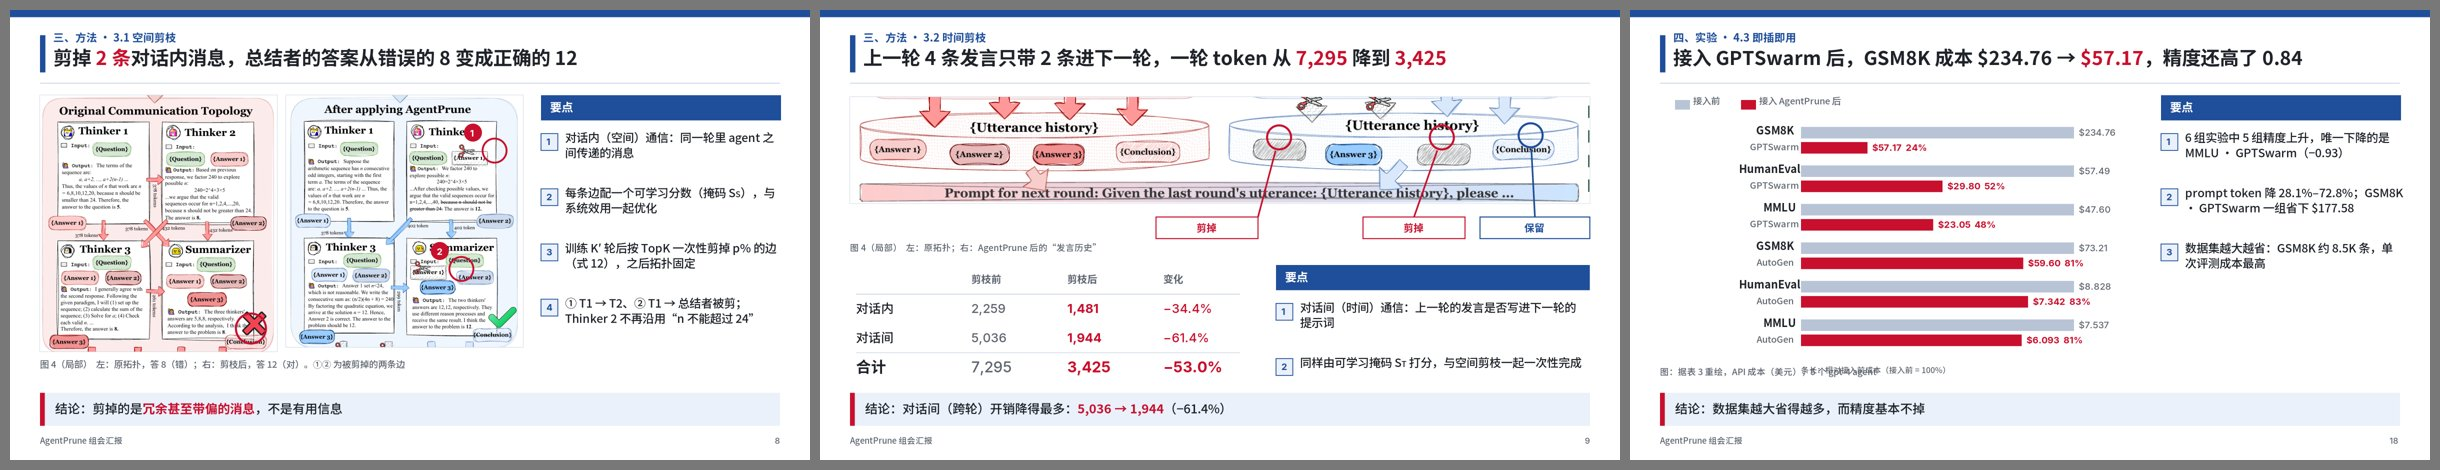
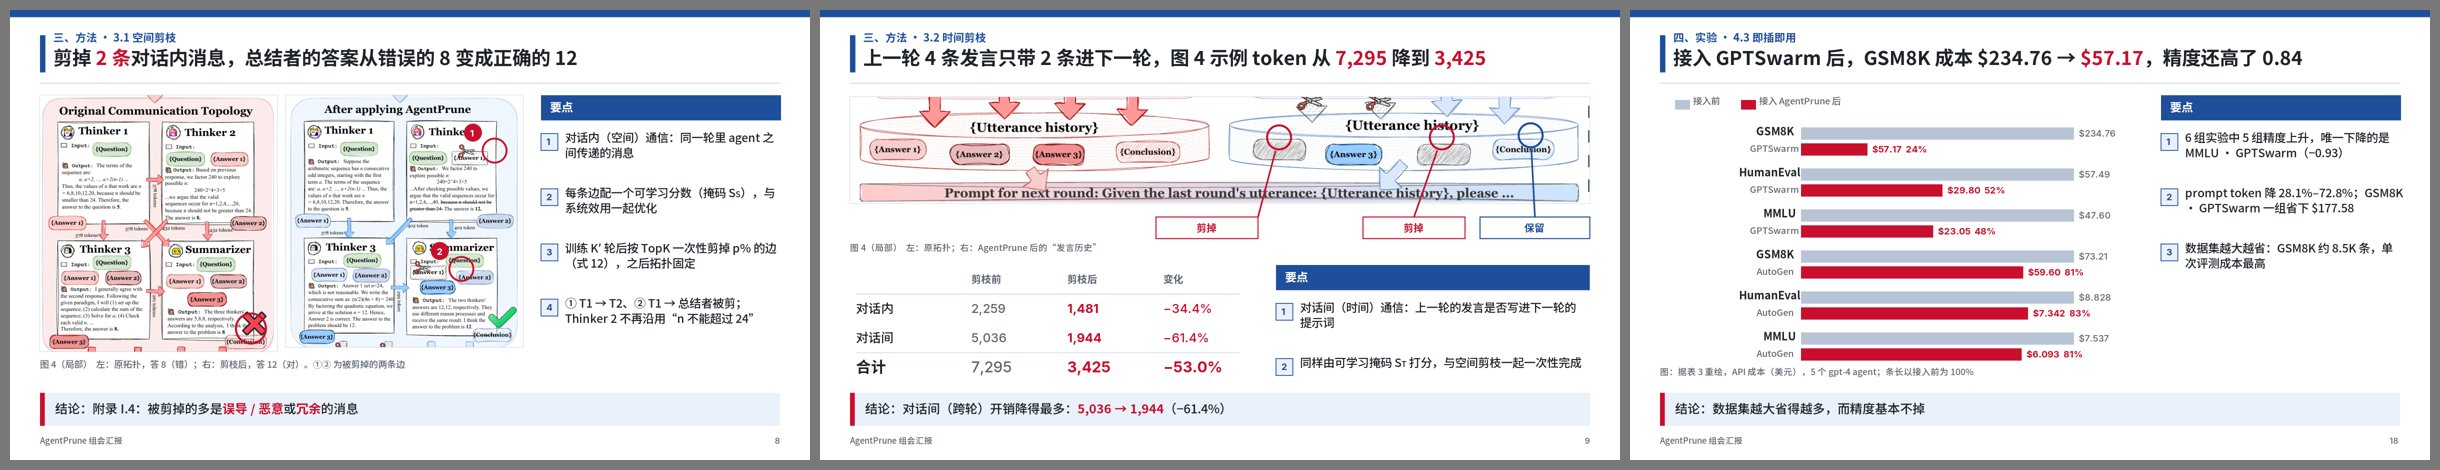
paper-ppt lab/annotated-v2: reader/presenter re-review — fix overclaims, token wording, label collisions; add REVIEW.md

Changed region(s): [[0.7164, 0.2681, 0.8721, 0.8043], [0.4672, 0.0894, 0.623, 0.1489], [0.0311, 0.834, 0.1557, 0.8936]]

diff --git a/paper-ppt/lab/annotated-v2/styles-a.js b/paper-ppt/lab/annotated-v2/styles-a.js
@@ -50,11 +50,11 @@ const domestic = (() => {
       K.ring(c, K.at(gl, A.cross), 0.25, S.red);
       c.text('图 4（局部）  左：原拓扑，答 8（错）；右：剪枝后，答 12（对）。①② 为被剪掉的两条边', {x: 0.5, y: 5.82, w: 8.0, h: 0.3, size: 11, color: S.muted, font: SANS});
       pts(c, 8.85, 1.42, 4.0, [A.points[0], A.points[1], A.points[2], '① T1 → T2、② T1 → 总结者被剪；Thinker 2 不再沿用“n 不能超过 24”'], '要点');
-      concl(c, '剪掉的是[[冗余甚至带偏的消息]]，不是有用信息');
+      concl(c, '附录 I.4：被剪掉的多是[[误导 / 恶意]]或[[冗余]]的消息');
       c.notes('来源：' + SRC.f4);
     },
     (c) => {
-      frame(c, '三、方法 · 3.2 时间剪枝', '上一轮 4 条发言只带 2 条进下一轮，一轮 token 从 [[7,295]] 降到 [[3,425]]', 9);
+      frame(c, '三、方法 · 3.2 时间剪枝', '上一轮 4 条发言只带 2 条进下一轮，图 4 示例 token 从 [[7,295]] 降到 [[3,425]]', 9);
       const g = K.figure(c, B.temporal, {x: 0.5, y: 1.45, w: 12.33, h: 1.78}, 'top', {line: S.rule, lw: 1});
       K.callout(c, K.at(g, B.pruned[0]), {x: 5.6, y: 3.45, w: 1.7, h: 0.36}, '剪掉', cs);
       K.callout(c, K.at(g, B.pruned[1]), {x: 9.05, y: 3.45, w: 1.7, h: 0.36}, '剪掉', cs);
@@ -69,8 +69,8 @@ const domestic = (() => {
       frame(c, '四、实验 · 4.3 即插即用', '接入 GPTSwarm 后，GSM8K 成本 $234.76 → [[$57.17]]，精度还高了 0.84', 18);
       c.rect({x: 0.75, y: 1.5, w: 0.25, h: 0.16, fill: 'B8C4D6'}); c.text('接入前', {x: 1.05, y: 1.43, w: 1, h: 0.3, size: 11, color: S.muted, font: SANS});
       c.rect({x: 1.85, y: 1.5, w: 0.25, h: 0.16, fill: S.red}); c.text('接入 AgentPrune 后', {x: 2.15, y: 1.43, w: 2, h: 0.3, size: 11, color: S.muted, font: SANS});
-      K.hbars(c, {x: 0.5, y: 1.85, w: 7.9, h: 4.1}, COST.rows, {font: SANS, numFont: INTER, text: S.text, muted: S.muted, before: 'B8C4D6', after: S.red, fmt: K.money, labelW: 2.35, boldFirst: true});
-      c.text('图：据表 3 重绘，API 成本（美元），5 个 gpt-4 agent', {x: 0.5, y: 5.95, w: 7.5, h: 0.3, size: 10.5, color: S.muted, font: SANS});
+      K.hbars(c, {x: 0.5, y: 1.85, w: 7.9, h: 4.1}, COST.rows, {font: SANS, numFont: INTER, text: S.text, muted: S.muted, before: 'B8C4D6', after: S.red, fmt: K.money, labelW: 2.35, boldFirst: true, noNote: true});
+      c.text('图：据表 3 重绘，API 成本（美元），5 个 gpt-4 agent；条长以接入前为 100%', {x: 0.5, y: 5.95, w: 7.5, h: 0.3, size: 10.5, color: S.muted, font: SANS});
       pts(c, 8.85, 1.42, 4.0, COST.points, '要点');
       concl(c, '数据集越大省得越多，而精度基本不掉');
       c.notes('来源：' + SRC.t3 + '；$177.58、28.1%–72.8% 见 §4.3 与摘要');
@@ -111,7 +111,7 @@ const international = (() => {
       src(c, SRC.f4);
     },
     (c) => {
-      frame(c, '上一轮 4 条发言只带 2 条进下一轮，一轮 token 从 7,295 降到 [[3,425]]', '[Fig. 4]');
+      frame(c, '上一轮 4 条发言只带 2 条进下一轮，图 4 示例 token 从 7,295 降到 [[3,425]]', '[Fig. 4]');
       const g = K.figure(c, B.temporal, {x: 0.6, y: 1.65, w: 12.1, h: 1.8}, 'top');
       K.callout(c, K.at(g, B.pruned[0]), {x: 6.2, y: 3.7, w: 1.6, h: 0.34}, '剪掉', cs);
       K.callout(c, K.at(g, B.pruned[1]), {x: 8.7, y: 3.7, w: 1.6, h: 0.34}, '剪掉', cs);
@@ -148,7 +148,7 @@ const keynote = (() => {
     },
     (c) => {
       c.bg('FFFFFF');
-      c.text('一轮 token', {x: 0.8, y: 0.9, w: 6, h: 0.5, size: 20, color: S.muted, font: SANS});
+      c.text('图 4 示例 · token', {x: 0.8, y: 0.9, w: 6, h: 0.5, size: 20, color: S.muted, font: SANS});
       c.text('7,295 → [[3,425]]', {x: 0.8, y: 1.4, w: 11.8, h: 2.0, size: 96, color: S.text, font: INTER, bold: true, acc: S.acc});
       c.text('只把上一轮 4 条发言中的 2 条带进下一轮', {x: 0.8, y: 3.45, w: 11, h: 0.5, size: 20, color: S.text, font: SANS});
       const g = K.figure(c, B.temporal, {x: 0.8, y: 4.45, w: 11.7, h: 1.8}, 'left');
@@ -186,19 +186,19 @@ const systems = (() => {
   const cs = {stroke: S.ours, fill: S.tint, line: S.ours, color: S.ours, font: SANS, size: 12, ring: 0.2, r: 0.05};
   return {name: 'systems-talk', label: '系统顶会报告', pages: [
     (c) => {
-      frame(c, 1, '剪掉 2 条对话内消息，答案从 8 变成 [[12]]：冗余通信在帮倒忙');
+      frame(c, 1, '剪掉 2 条对话内消息，答案从 8 变成 [[12]]（Fig. 4 示例）');
       chip(c, 0.6, 1.55, 'Baseline · 6 条边', false); chip(c, 6.9, 1.55, 'AgentPrune · 4 条边', true);
       const gl = K.figure(c, A.left, {x: 0.6, y: 2.0, w: 4.2, h: 4.3}, 'top-left');
       const gr = K.figure(c, A.right, {x: 6.9, y: 2.0, w: 4.2, h: 4.3}, 'top-left');
       c.text('→', {x: 5.0, y: 3.6, w: 1.6, h: 0.9, size: 48, color: S.ours, font: INTER, bold: true, align: 'center'});
       K.callout(c, K.at(gr, A.cut1), {x: 11.1, y: 2.2, w: 1.95, h: 0.55}, '① 剪掉\nT1 → T2'.split('\n'), cs);
       K.callout(c, K.at(gr, A.cut2), {x: 11.1, y: 4.1, w: 1.95, h: 0.55}, '② 剪掉\nT1 → 总结者'.split('\n'), cs);
-      c.text('答 8（错）', {x: gl.x + gl.w - 1.5, y: gl.y + gl.h - 0.32, w: 1.5, h: 0.3, size: 12, color: S.muted, font: SANS, bold: true, align: 'right'});
-      c.text('答 12（对）', {x: gr.x + gr.w - 1.5, y: gr.y + gr.h - 0.32, w: 1.5, h: 0.3, size: 12, color: S.ours, font: SANS, bold: true, align: 'right'});
-      insight(c, ['每条边一个可学习分数 S^{S}，与系统效用一起优化', '训练 K′ 轮后按 TopK 一次性剪 p%，之后拓扑固定', '被剪的 T1→T2 曾把“n 小于 24”传给 Thinker 2']);
+      c.text('答 8（错）', {x: gl.x + gl.w - 1.5, y: gl.y - 0.42, w: 1.5, h: 0.3, size: 12, color: S.muted, font: SANS, bold: true, align: 'right'});
+      c.text('答 12（对）', {x: gr.x + gr.w - 1.5, y: gr.y - 0.42, w: 1.5, h: 0.3, size: 12, color: S.ours, font: SANS, bold: true, align: 'right'});
+      insight(c, ['每条边一个可学习分数 S^{S}，与系统效用一起优化', '训练 K′ 轮后按 TopK 一次性剪 p%，之后拓扑固定', '据图推断：被剪的 T1→T2 带着“n < 24”的限制']);
     },
     (c) => {
-      frame(c, 1, '跨轮历史只留 2 条，一轮 token 降 [[53%]]');
+      frame(c, 1, '跨轮历史只留 2 条，示例 token 降 [[53%]]');
       const g = K.figure(c, B.temporal, {x: 0.6, y: 1.5, w: 12.1, h: 1.8}, 'top');
       K.callout(c, K.at(g, B.pruned[0]), {x: 6.4, y: 3.5, w: 1.5, h: 0.34}, '剪掉', cs);
       K.callout(c, K.at(g, B.pruned[1]), {x: 8.8, y: 3.5, w: 1.5, h: 0.34}, '剪掉', cs);
@@ -206,7 +206,7 @@ const systems = (() => {
       K.ledger(c, {x: 0.6, y: 4.0, w: 7.6, h: 2.25}, B.ledger, {font: SANS, numFont: INTER, text: S.text, muted: S.muted, accent: S.ours, rule: S.rule, size: 16, lastSize: 20});
       c.rect({x: 8.9, y: 4.05, w: 3.8, h: 2.15, fill: S.tint, r: 0.08});
       c.text('2.1×', {x: 8.9, y: 4.15, w: 3.8, h: 1.1, size: 60, color: S.ours, font: INTER, bold: true, align: 'center'});
-      c.text('每轮 token 少 2.1 倍（7,295 / 3,425）', {x: 9.05, y: 5.35, w: 3.5, h: 0.7, size: 13, color: S.text, font: SANS, align: 'center'});
+      c.text('token 降到 1/2.1（7,295 → 3,425）', {x: 9.05, y: 5.35, w: 3.5, h: 0.7, size: 13, color: S.text, font: SANS, align: 'center'});
       insight(c, ['跨轮开销最大：5,036 → 1,944（−61.4%）', '时间边由 S^{T} 打分，与空间边一起剪', '空间、时间两类边共用“掩码 + TopK”同一套流程']);
     },
     (c) => {
@@ -274,7 +274,7 @@ const metropolis = (() => {
       c.rect({x: 1.3, y: 1.4, w: 0.22, h: 0.14, fill: 'C9D1D3'}); c.text('攻击前', {x: 1.58, y: 1.33, w: 1, h: 0.28, size: 11, color: S.muted, font: SANS});
       c.rect({x: 2.5, y: 1.4, w: 0.22, h: 0.14, fill: '7A8B8F'}); c.text('攻击后（橙色 = 用了 AgentPrune）', {x: 2.78, y: 1.33, w: 4, h: 0.28, size: 11, color: S.muted, font: SANS});
       block(c, 9.0, 1.4, 3.75, 2.6, 'Observation', ['受提示攻击时，AutoGen 掉 [[5.9]] 分，接入后只掉 [[0.2]]'], true);
-      block(c, 9.0, 4.2, 3.75, 2.5, '为什么', ['被剪掉的边往往正是传递错误或恶意内容的边（附录图 38 案例）'], false);
+      block(c, 9.0, 4.2, 3.75, 2.5, '为什么', ['附录 I.4：剪掉的主要是误导 / 恶意消息（图 38）与冗余消息（图 39）'], false);
       c.text(SRC.f6, {x: 1.2, y: 7.05, w: 8, h: 0.3, size: 10, color: S.muted, font: SANS});
     },
   ]};
@@ -301,7 +301,7 @@ const dark = (() => {
       c.text(SRC.f4, {x: 0.6, y: 7.18, w: 6, h: 0.25, size: 9, color: S.muted, font: MONO});
     },
     (c) => {
-      frame(c, '// METHOD · TEMPORAL PRUNING', '一轮 token：7,295 → [[3,425]]');
+      frame(c, '// METHOD · TEMPORAL PRUNING', '图 4 示例 token：7,295 → [[3,425]]');
       const g = K.figure(c, B.temporal, {x: 0.6, y: 1.65, w: 12.1, h: 1.8}, 'top', {fill: 'FFFFFF', pad: 0.06, r: 0.04});
       K.spotlight(c, g, [0.5, 0, 1, 1], S.bg, 0.65);
       K.callout(c, K.at(g, B.pruned[0]), {x: 6.6, y: 3.7, w: 1.4, h: 0.36}, '剪掉', {...cs, stroke: S.pink, line: S.pink, color: S.pink});
@@ -350,7 +350,7 @@ const editorial = (() => {
       note(c, 0.7, 2.1, 3.3, 1, '剪掉 Thinker 1 发给 Thinker 2 的回答');
       note(c, 0.7, 3.05, 3.3, 2, '剪掉 Thinker 1 发给总结者的回答');
       note(c, 0.7, 4.0, 3.3, 3, 'Thinker 2 不再沿用“n 不能超过 24”');
-      note(c, 0.7, 4.95, 3.3, 4, '原拓扑总结者答 8，剪枝后答 12（正确）');
+      note(c, 0.7, 4.95, 3.3, 4, '原拓扑总结者答 8，剪枝后答 12（图中标为正确）');
       c.line({x1: 0.7, y1: 6.05, x2: 4.0, y2: 6.05, color: S.rule, lw: 1});
       c.text('每条边一个可学习分数，训练 K′ 轮后一次性剪掉 p%。', {x: 0.7, y: 6.15, w: 3.3, h: 0.8, size: 12, color: S.muted, font: SERIF, italic: true, lh: 1.3});
       c.text('Fig. 4（局部）· Zhang et al., ICLR 2025', {x: 4.3, y: 7.08, w: 6, h: 0.25, size: 9.5, color: S.muted, font: SERIF});
@@ -422,8 +422,8 @@ const defense = (() => {
       K.callout(c, K.at(g, B.pruned[0]), {x: 6.5, y: 3.6, w: 1.5, h: 0.34}, '剪掉', cs);
       K.callout(c, K.at(g, B.pruned[1]), {x: 9.0, y: 3.6, w: 1.5, h: 0.34}, '剪掉', cs);
       K.ledger(c, {x: 0.6, y: 4.1, w: 7.4, h: 2.15}, B.ledger, {font: SANS, numFont: INTER, text: S.text, muted: S.muted, accent: S.red, rule: S.rule});
-      side(c, 8.4, 4.05, 4.43, 2.25, '计算依据', ['由图 4 底部算式求和', '对话间按图中“×4”累计']);
-      concl(c, '每轮 token 由 7,295 降至 3,425（−53.0%）');
+      side(c, 8.4, 4.05, 4.43, 2.25, '计算依据', ['由图 4 底部算式求和', '对话间一项在算式中带 ×4']);
+      concl(c, '图 4 示例：token 由 7,295 降至 3,425（−53.0%）');
     },
     (c) => {
       frame(c, 3, '4.4 鲁棒性：受攻击时性能基本保持', 19);
@@ -467,7 +467,7 @@ const jp = (() => {
       [[A.cut1, 1], [A.cut2, 2]].forEach(([f, n]) => { const p = K.at(gr, f); K.ring(c, p, 0.19, 'D7263D', 2); K.badge(c, {x: p.x - 0.34, y: p.y - 0.28}, n, {fill: 'D7263D', color: 'FFFFFF', font: INTER, size: 10, r: 0.14}); });
       K.ring(c, K.at(gl, A.cross), 0.22, 'D7263D');
       c.text('左：原拓扑（答 8，错）  右：剪枝后（答 12，对）  ①② 被剪的边  Fig. 4', {x: 5.55, y: 6.17, w: 7.3, h: 0.28, size: 10.5, color: S.muted, font: SANS, align: 'center'});
-      concl(c, '去掉冗余通信后反而答对了（8 → 12）');
+      concl(c, '剪掉 2 条边后，示例答案由 8 变为 12（Fig. 4）');
     },
     (c) => {
       frame(c, '方法②：用[[时间剪枝]]精简上一轮的历史', 9);
@@ -476,7 +476,7 @@ const jp = (() => {
       K.callout(c, K.at(g, B.pruned[1]), {x: 9.1, y: 3.42, w: 1.3, h: 0.3}, '剪掉', cs);
       list(c, 0.5, 3.9, 5.6, [['对象：上一轮发言是否写进下一轮提示词', ['由掩码 S^{T} 打分，与空间剪枝同时完成']], ['示例：4 条发言只保留 2 条', ['Answer 3 与 Conclusion 进入下一轮']]]);
       K.ledger(c, {x: 6.5, y: 3.9, w: 6.3, h: 2.4}, B.ledger, {font: SANS, numFont: INTER, text: S.text, muted: S.muted, accent: S.teal, rule: S.rule});
-      concl(c, '每轮 token：7,295 → 3,425（−53.0%）');
+      concl(c, '图 4 示例 token：7,295 → 3,425（−53.0%）');
     },
     (c) => {
       frame(c, '实验：[[即插即用]]，直接降低现有框架的成本', 18);

diff --git a/paper-ppt/lab/annotated-v2/styles-b.js b/paper-ppt/lab/annotated-v2/styles-b.js
@@ -36,7 +36,7 @@ const explainer = (() => {
       c.rect({x: 0.6, y: 3.65, w: 7.4, h: 0.75, fill: 'FFF6D6', line: S.ink, lw: 1.25, r: 0.14});
       c.text('第 t+1 轮提示词：Given the last round’s utterance: {Answer 3, Conclusion} …', {x: 0.8, y: 3.65, w: 7.1, h: 0.75, size: 13, color: S.ink, font: SANS, valign: 'middle'});
       c.text('↑ Answer 1、2 被剪掉，不再进入下一轮', {x: 0.6, y: 2.85, w: 3.6, h: 0.35, size: 12.5, color: S.red, font: SANS, bold: true});
-      c.text(['为什么省得多：', '历史会在每一轮被写进提示词；图 4 的算式里，对话间一项按 ×4 累计，是一轮 token 的大头（5,036 / 7,295）。'], {x: 0.6, y: 4.8, w: 7.4, h: 1.8, size: 14, color: S.ink, font: SANS, lh: 1.45});
+      c.text(['为什么省得多：', '图 4 算式里，对话间一项带 ×4，占剪枝前总量的 69%（5,036 / 7,295），所以剪它收益最大。'], {x: 0.6, y: 4.8, w: 7.4, h: 1.8, size: 14, color: S.ink, font: SANS, lh: 1.45});
       K.ledger(c, {x: 8.6, y: 1.75, w: 4.2, h: 2.6}, B.ledger.map(r => ({...r})), {font: SANS, numFont: INTER, text: S.ink, muted: S.muted, accent: S.blueLine, rule: S.ink, size: 14, lastSize: 17, headSize: 11});
       K.callout(c, {x: 11.2, y: 3.42}, {x: 9.0, y: 4.85, w: 3.8, h: 0.75}, '跨轮开销降得最多：\n5,036 → 1,944'.split('\n'), bub);
       c.text('重绘自 ' + SRC.f4 + '；token 由图中算式求和', {x: 0.6, y: 7.08, w: 9, h: 0.25, size: 9.5, color: S.muted, font: INTER});
@@ -86,7 +86,7 @@ const lecture = (() => {
       K.callout(c, K.at(g, B.pruned[0]), {x: 6.4, y: 4.25, w: 1.4, h: 0.32}, '剪掉', cs);
       K.callout(c, K.at(g, B.pruned[1]), {x: 8.9, y: 4.25, w: 1.4, h: 0.32}, '剪掉', cs);
       K.ledger(c, {x: 0.6, y: 4.75, w: 6.6, h: 2.15}, B.ledger, {font: SANS, numFont: FIRA, text: S.ink, muted: S.muted, accent: S.red, rule: S.ink});
-      c.text(['Question:', '为什么跨轮开销降得最多？', '历史会被写进下一轮的提示词，图 4 算式中这一项按 ×4 累计，是一轮 token 的大头。'], {x: 7.8, y: 4.8, w: 5.0, h: 2.0, size: 14, color: S.ink, font: SANS, lh: 1.35});
+      c.text(['Question:', '为什么跨轮开销降得最多？', '图 4 算式中对话间一项带 ×4，占剪枝前总量的 69%（5,036 / 7,295）。'], {x: 7.8, y: 4.8, w: 5.0, h: 2.0, size: 14, color: S.ink, font: SANS, lh: 1.35});
       c.text(SRC.f4 + '；token 由图中算式求和', {x: 0.55, y: 7.12, w: 7, h: 0.25, size: 9.5, color: S.muted, font: FIRA});
     },
     (c) => {
@@ -184,7 +184,7 @@ const softBento = (() => {
       c.text(SRC.f4, {x: 0.55, y: 7.15, w: 6, h: 0.25, size: 9, color: S.muted, font: INTER});
     },
     (c) => {
-      title(c, '时间剪枝：历史只带 2 条，一轮 token 降 53%');
+      title(c, '时间剪枝：历史只带 2 条，示例 token 降 53%');
       card(c, 0.55, 1.1, 12.28, 2.75, '图 4 局部：发言历史', S.sky, S.skyT);
       const g = K.figure(c, B.temporal, {x: 0.75, y: 1.65, w: 11.9, h: 2.05});
       K.badge(c, K.at(g, B.pruned[0]), '×', {fill: S.peachT, color: 'FFFFFF', font: SANS, size: 11, r: 0.16});
@@ -195,7 +195,7 @@ const softBento = (() => {
         card(c, x, 4.0, 3.98, 3.05, r.k, tints[i][0], tints[i][1]);
         c.text(r.d, {x: x + 0.25, y: 4.7, w: 3.5, h: 0.9, size: 40, color: tints[i][1], font: INTER, bold: true});
         c.text(r.a + ' → ' + r.b + ' tokens', {x: x + 0.25, y: 5.7, w: 3.5, h: 0.4, size: 15, color: S.text, font: INTER});
-        c.text(['只在原系统的对话内边上剪', '历史在每轮被反复写入（×4）', '图 4 底部算式求和'][i], {x: x + 0.25, y: 6.2, w: 3.5, h: 0.6, size: 12, color: S.muted, font: SANS});
+        c.text(['只在原系统的对话内边上剪', '算式中对话间一项带 ×4', '图 4 底部算式求和'][i], {x: x + 0.25, y: 6.2, w: 3.5, h: 0.6, size: 12, color: S.muted, font: SANS});
       });
       c.text(SRC.f4, {x: 0.55, y: 7.15, w: 6, h: 0.25, size: 9, color: S.muted, font: INTER});
     },
@@ -243,7 +243,7 @@ const swiss = (() => {
     (c) => {
       frame(c, '03 — 方法 / 时间剪枝', 9);
       c.text('−53%', {x: 0.45, y: 1.0, w: 6, h: 2.0, size: 120, color: S.red, font: INTER, bold: true});
-      c.text('每轮 token：7,295 → 3,425。上一轮 4 条发言只带 2 条进下一轮。', {x: 0.5, y: 3.25, w: 5.6, h: 1.1, size: 20, color: S.ink, font: SANS, bold: true, lh: 1.3});
+      c.text('图 4 示例 token：7,295 → 3,425。上一轮 4 条发言只带 2 条进下一轮。', {x: 0.5, y: 3.25, w: 5.6, h: 1.1, size: 20, color: S.ink, font: SANS, bold: true, lh: 1.3});
       K.ledger(c, {x: 6.6, y: 1.05, w: 6.23, h: 2.6}, B.ledger, {font: SANS, numFont: INTER, text: S.ink, muted: S.muted, accent: S.red, rule: S.ink, size: 16, lastSize: 20});
       const g = K.figure(c, B.temporal, {x: 0.5, y: 4.75, w: 12.33, h: 1.8}, 'top');
       K.badge(c, K.at(g, B.pruned[0]), '×', {fill: S.red, color: 'FFFFFF', font: INTER, size: 12, r: 0.15});

diff --git a/paper-ppt/lab/annotated-v2/kit.js b/paper-ppt/lab/annotated-v2/kit.js
@@ -51,7 +51,7 @@ function hbars(c, box, rows, st) {
   const max = st.max || Math.max(...rows.map(r => r.a));
   const labelW = st.labelW || 2.6, valW = st.valW || 1.0;
   const x0 = box.x + labelW, bw = box.w - labelW - valW - (st.extraW || 0);
-  if (!st.absolute) { c.text('条长：相对接入前成本（接入前 = 100%）', {x: x0, y: box.y + box.h - 0.02, w: Math.min(5, bw), h: 0.25, size: 9.5, color: st.muted, font: st.font}); box = {...box, h: box.h - 0.25}; }
+  if (!st.absolute && !st.noNote) { c.text('条长：相对接入前成本（接入前 = 100%）', {x: x0, y: box.y + box.h - 0.02, w: Math.min(5, bw), h: 0.25, size: 9.5, color: st.muted, font: st.font}); box = {...box, h: box.h - 0.25}; }
   const rowH = box.h / rows.length; const bh = Math.min(0.24, rowH * 0.3);
   rows.forEach((r, i) => {
     const y = box.y + i * rowH + (rowH - 2 * bh - 0.06) / 2;

diff --git a/paper-ppt/lab/annotated-v2/content.js b/paper-ppt/lab/annotated-v2/content.js
@@ -33,7 +33,7 @@ const A = {
 };
 
 const B = {
-  title: '上一轮 4 条发言只带 2 条进下一轮，一轮 token 从 7,295 降到 3,425',
+  title: '上一轮 4 条发言只带 2 条进下一轮，图 4 示例 token 从 7,295 降到 3,425',
   short: '7,295 → 3,425',
   kicker: '时间剪枝 · 对话间',
   points: [

diff --git a/paper-ppt/lab/annotated-v2/REVIEW.md b/paper-ppt/lab/annotated-v2/REVIEW.md
@@ -1,0 +1,24 @@
+# 读者 / 讲者视角复审（2026-10-08）
+
+把 48 页当作第一次看到的听众、和要站上台讲的作者各看一遍。
+
+## 已在本次提交修正
+
+| 问题 | 视角 | 修正 |
+|---|---|---|
+| “一轮 token 7,295 → 3,425”：论文没说这是“一轮”。图 4 算式里对话内一项算一次、对话间一项 ×4，×4 的含义论文未解释 | 讲者被追问会答不上 | 全部改为“图 4 示例 token”；×4 只描述为“算式中带 ×4”，并给出可算事实：对话间占剪枝前 69%（5,036 / 7,295） |
+| “冗余通信在帮倒忙”“剪掉的是冗余甚至带偏的消息”：从单个例子推出一般结论 | 读者会质疑以偏概全 | 标题改为“（Fig. 4 示例）”；结论改引附录 I.4 的归纳（误导 / 恶意消息，图 38；冗余消息，图 39） |
+| “被剪的边往往正是传递错误的边” | 同上 | 改为附录 I.4 原意 |
+| “T1→T2 曾把 n 小于 24 传给 Thinker 2”：论文没写这条因果 | 讲者 | 加“据图推断” |
+| “答 12（正确）” | 读者 | 改为“图中标为正确”（见下文第 3 条） |
+| systems-talk：答 8 / 答 12 标签压在原图 Conclusion 上 | 读者 | 移到图上方 |
+| domestic：图注与“条长”说明重叠 | 读者 | 说明并入图注 |
+
+## 仍未解决（需要你决定或在全稿里解决）
+
+1. **例题没交代。** 三页样稿直接讲“剪掉 2 条边，答案 8 → 12”，但听众不知道题目是什么（和为 240 的连续奇数数列有几个），也不知道 Thinker / Summarizer 是谁。全稿里应先放一页“例题与角色”，或在方法页加一行题干。
+2. **原图里的 agent 输出文字在投影上读不清。** 这些文字承载了“为什么错”的推理（Thinker 1 说 n < 24，总结者看到 5、8、8 答 8）。现在靠标注转述；若要让听众自己看见推理，需要把那两三句原文单独放大成一页。
+3. **示例答案的“对”取决于是否允许负奇数。** 只取正奇数时答案是 6（n = 2,4,6,8,10,12）；允许负奇数时是 12。论文按 12 判对。讲者若被问到要能解释；页面上写“图中标为正确”。
+4. **16 套的第 3 页内容不统一**（有的讲成本，有的讲抗攻击，有的是汇总），横向比较风格时不是同一内容，判断会被内容干扰。
+5. **“精度”一词不准确。** HumanEval 是 pass@1，不是精度；表 3 的列在全稿里应写成“准确率 / pass@1”。
+6. **部分页面信息密度偏高**（domestic、jp-gothic 方法页同时有原图、4 条要点和结论条）。讲者会边讲边被字抢注意力；全稿里建议要点不超过 3 条，并且不复述标注已说过的内容。
